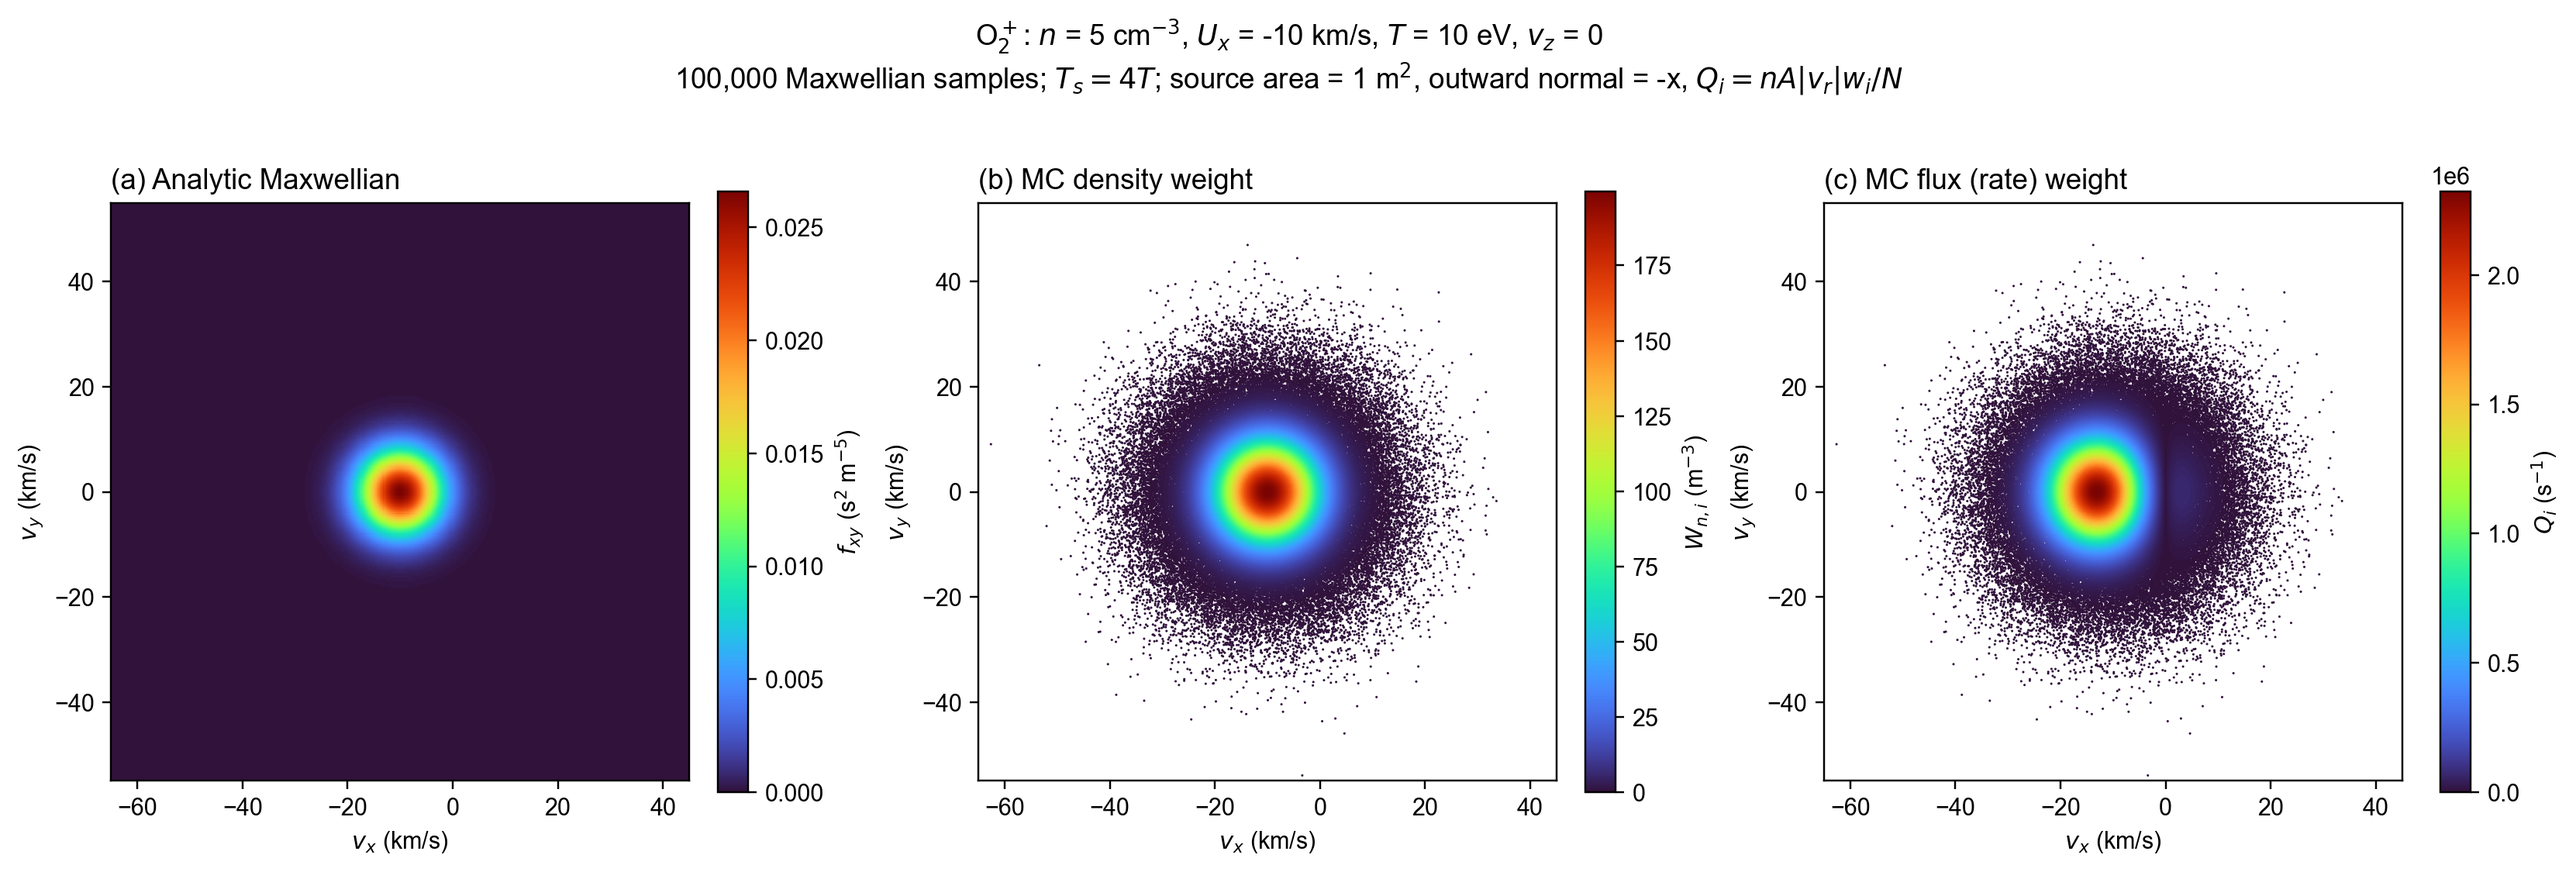
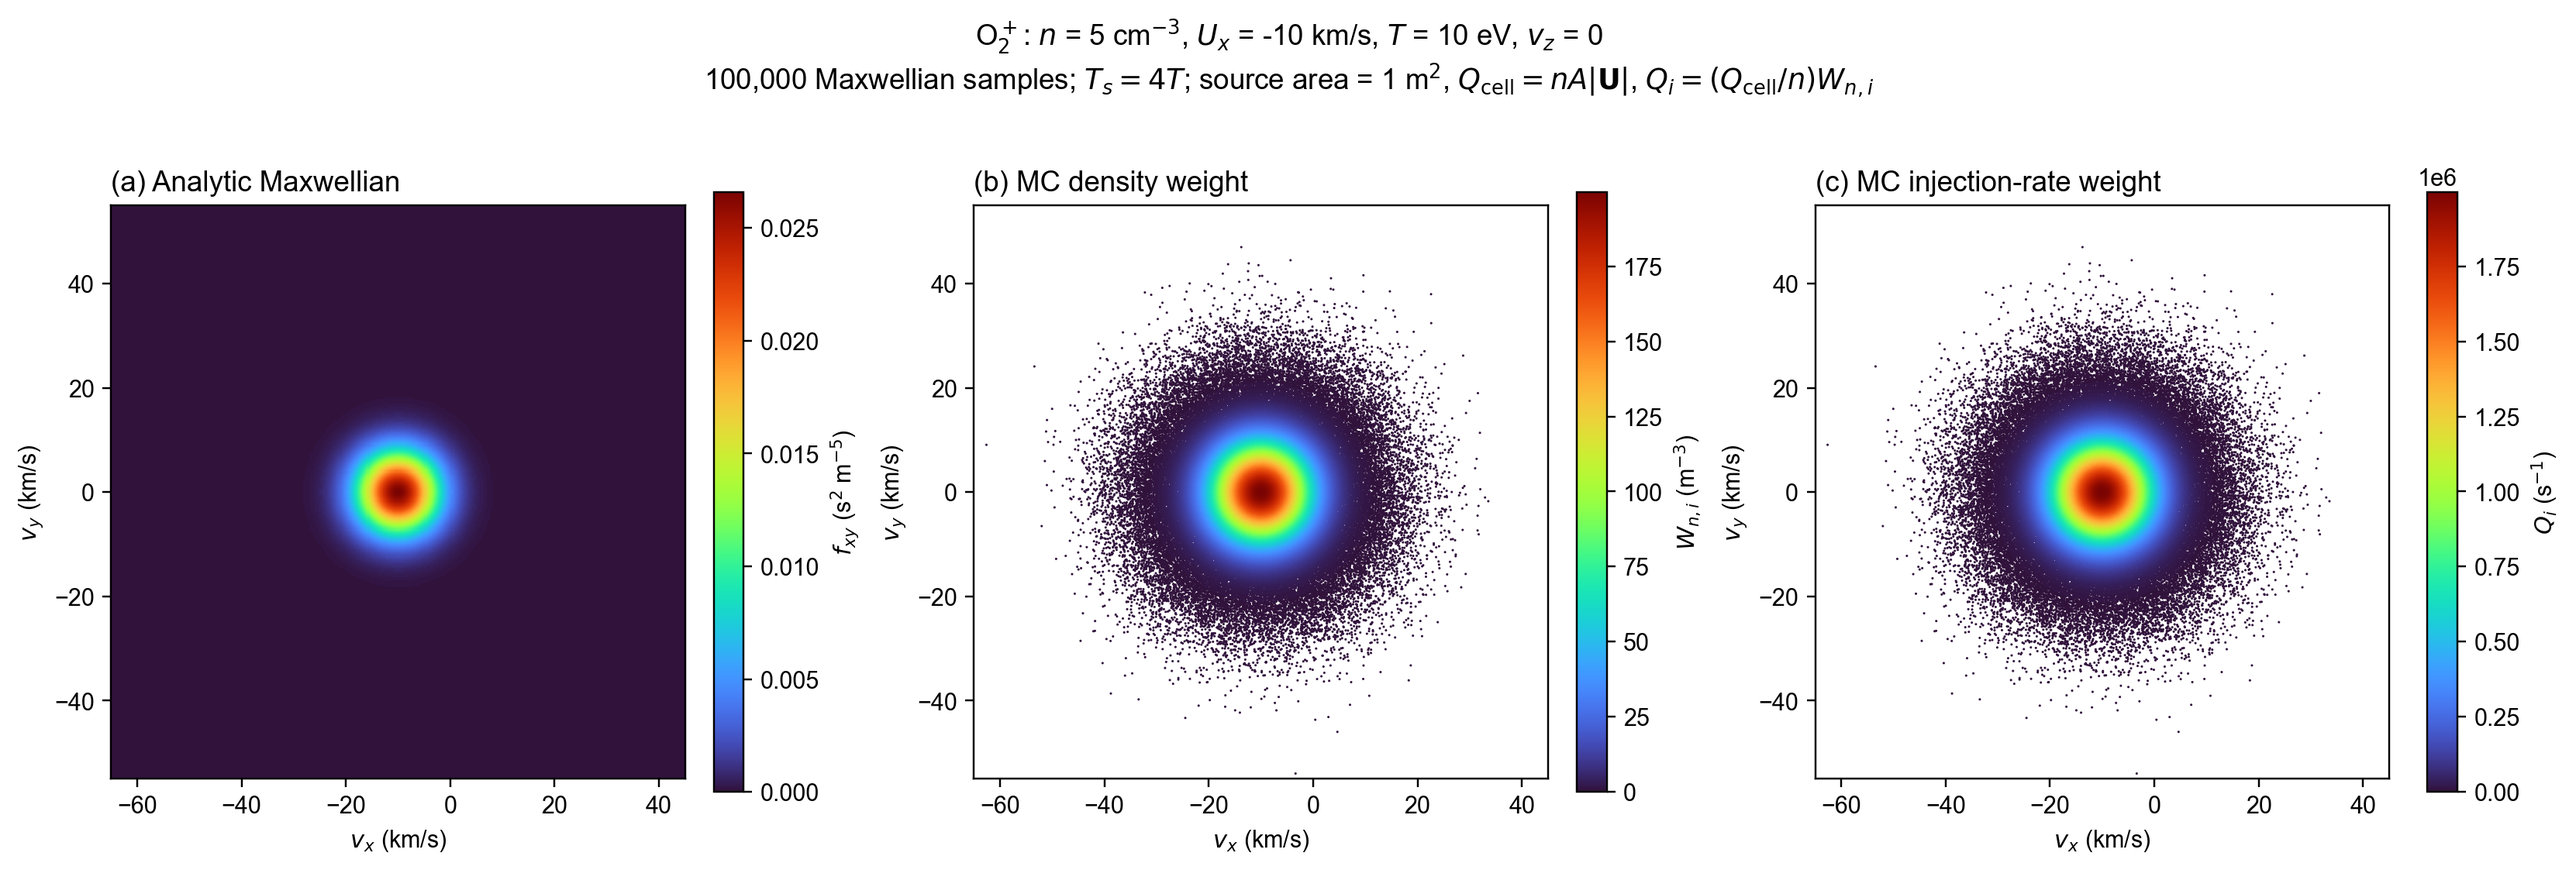
Plot density and prescribed injection rates with proportional weights

diff --git a/examples/forward_tracing/monte_carlo_forward_tracing/plot_monte_carlo_sampling.py b/examples/forward_tracing/monte_carlo_forward_tracing/plot_monte_carlo_sampling.py
@@ -27,20 +27,20 @@ def sample_demo(count=100_000, seed=20260907):
     d2 = np.sum((velocity-bulk)**2,axis=1)
     # d=2: g2/gs2 = factor * exp[-d2/(2 sigma^2)*(1-1/factor)].
     importance = factor*np.exp(-d2/(2*sigma**2)*(1-1/factor))
-    density_weight = n*importance/importance.sum()
-    # Radial reference normal is -x; both crossing directions have weights.
-    radial = -velocity[:,0]
-    rate_weight = n*area*np.abs(radial)*importance/count
-    ur = -bulk[0]
-    outward_probability = .5*math.erfc(-ur/sigma/math.sqrt(2))
-    analytic_rate = n*area*(2*sigma/math.sqrt(2*math.pi)*math.exp(-.5*(ur/sigma)**2)+ur*(2*outward_probability-1))
+    normalized_weight = importance/importance.sum()
+    density_weight = n*normalized_weight
+    # Prescribed total injection rate is fixed for the entire patch.
+    analytic_rate = n*area*np.linalg.norm(bulk)
+    rate_weight = analytic_rate*normalized_weight
     neff = importance.sum()**2/np.sum(importance**2)
     weighted_mean = np.sum(density_weight[:,None]*velocity,axis=0)/n
     assert np.isclose(density_weight.sum(),n,rtol=1e-14)
-    assert np.all(rate_weight[radial!=0]>0)
+    assert np.all(rate_weight>0)
+    assert np.allclose(rate_weight,area*np.linalg.norm(bulk)*density_weight,rtol=1e-14)
+    assert np.allclose(rate_weight/rate_weight.max(),density_weight/density_weight.max(),rtol=1e-14)
     assert np.any(velocity[:,0]<0) and np.any(velocity[:,0]>0)
     assert np.all(abs(weighted_mean-bulk)<6*sigma/math.sqrt(neff))
-    assert np.isclose(rate_weight.sum(),analytic_rate,rtol=.03)
+    assert np.isclose(rate_weight.sum(),analytic_rate,rtol=1e-14)
     return dict(n=n,mass=mass,qe=qe,temperature_ev=temperature_ev,bulk=bulk,
         factor=factor,area=area,sigma=sigma,velocity=velocity,importance=importance,
         density_weight=density_weight,rate_weight=rate_weight,analytic_rate=analytic_rate,
@@ -66,13 +66,14 @@ def main():
     im=axes[0].pcolormesh(x/1000,y/1000,f2,cmap='turbo',shading='auto',norm=Normalize(0,f2.max()))
     axes[0].set_title('(a) Analytic Maxwellian',loc='left')
     fig.colorbar(im,ax=axes[0],label=r'$f_{xy}$ (s$^2$ m$^{-5}$)',shrink=.79)
+    sample_order=np.argsort(d['importance'])
     for ax,weights,title,label in zip(axes[1:],(d['density_weight'],d['rate_weight']),
-            ('(b) MC density weight','(c) MC flux (rate) weight'),
+            ('(b) MC density weight','(c) MC injection-rate weight'),
             (r'$W_{n,i}$ (m$^{-3}$)',r'$Q_i$ (s$^{-1}$)')):
         positive=weights>0
         if np.any(~positive):
             ax.scatter(*d['velocity'][~positive].T/1000,s=1,c='#cccccc',linewidths=0,rasterized=True)
-        order=np.flatnonzero(positive)[np.argsort(weights[positive])]
+        order=sample_order[positive[sample_order]]
         im=ax.scatter(*d['velocity'][order].T/1000,c=weights[order],s=1,
                       cmap='turbo',norm=Normalize(0,weights.max()),linewidths=0,rasterized=True)
         ax.set_title(title,loc='left')
@@ -81,7 +82,7 @@ def main():
         ax.set(xlim=np.array(xlim)/1000,ylim=np.array(ylim)/1000,
                xlabel=r'$v_x$ (km/s)',ylabel=r'$v_y$ (km/s)',aspect='equal')
     fig.suptitle('O$_2^+$: $n$ = 5 cm$^{-3}$, $U_x$ = -10 km/s, $T$ = 10 eV, $v_z$ = 0\n'
-                 f'{args.count:,} Maxwellian samples; '+r'$T_s=4T$; source area = 1 m$^2$, outward normal = -x, $Q_i=nA|v_r|w_i/N$')
+                 f'{args.count:,} Maxwellian samples; '+r'$T_s=4T$; source area = 1 m$^2$, $Q_{\mathrm{cell}}=nA|\mathbf{U}|$, $Q_i=(Q_{\mathrm{cell}}/n)W_{n,i}$')
     args.output.parent.mkdir(parents=True,exist_ok=True)
     fig.savefig(args.output,dpi=220,bbox_inches='tight')
     plt.close(fig)

diff --git a/examples/forward_tracing/monte_carlo_forward_tracing/README.md b/examples/forward_tracing/monte_carlo_forward_tracing/README.md
@@ -10,9 +10,9 @@ Monte Carlo represents a continuous velocity distribution with a finite set of w
 
 ![Maxwellian and Monte Carlo particle weights](monte_carlo_sampling.png)
 
-The [plotting script](plot_monte_carlo_sampling.py) uses O₂⁺ at density 5 cm⁻³ (5×10⁶ m⁻³), bulk velocity (−10,0) km/s and physical temperature 10 eV. It draws 100,000 two-dimensional velocities with vz=0. The **sampling Maxwellian** has temperature 40 eV. A source area of **1 m²** and radial reference normal **(-1,0)** define the bidirectional crossing-rate weights. Both signs of each sampled velocity component are retained.
+The [plotting script](plot_monte_carlo_sampling.py) uses O₂⁺ at density 5 cm⁻³ (5×10⁶ m⁻³), bulk velocity (−10,0) km/s and physical temperature 10 eV. It draws 100,000 two-dimensional velocities with vz=0. The **sampling Maxwellian** has temperature 40 eV. A source area of **1 m²** and bulk speed **10 km/s** define the fixed total patch injection rate Q_cell = n A norm(U) = 5e10 s^-1. Both signs of each sampled velocity component are retained.
 
-All three panels use turbo. The left panel shows the analytical two-dimensional Maxwellian (s² m⁻⁵). The middle and right panels color individual samples by `density_weight` (m⁻³) and `flux_weight` (s⁻¹), respectively. The density weights are self-normalized diagnostics. The crossing-rate weights use Q_i = n A abs(vx_i) w_i / N. Both signs carry positive rates, except exactly tangential velocities with zero normal speed. Reconstruct the VDF with weighted velocity-bin sums, not scatter-point colors.
+All three panels use turbo. The left panel shows the analytical two-dimensional Maxwellian (s² m⁻⁵). The middle and right panels color individual samples by `density_weight` (m⁻³) and `flux_weight` (s⁻¹), respectively. Both panels use the same normalized importance weights: Wn_i = n w_i / sum(w) and Q_i = Q_cell w_i / sum(w) = (Q_cell/n) Wn_i. Their normalized colors and spatial patterns are identical; only colorbar values and units differ. No individual radial-speed factor or sign cutoff is applied in this illustration. This figure demonstrates the prescribed injection model (`flux_model=:bulk_speed`), while the shell default described below remains the bidirectional crossing model. Reconstruct the VDF with weighted velocity-bin sums, not scatter-point colors.
 
 ### 1.2 Maxwellian sampling and importance weights
 
@@ -311,6 +311,6 @@ julia --startup-file=no --compiled-modules=existing --project=. examples/forward
 
 With Julia 1.12.6 and TestParticle 0.23.3, the corrected package suite passed 532 assertions and the shell suite passed 257 assertions. Tests cover bidirectional crossing-rate sums, positive inward weights, outward-only compatibility, zero-field slab density recovery, travel from 500 km to absorption at 200 km, and an inward launch that turns under an outward electric field and returns above 500 km without termination at the source.
 
-A local MHD smoke check used 6 sampled cells, 10 draws per cell and 0.2 s of propagation. The actual stored mesh minimum is 199.646643 km. All 28 inward launches out of 60 samples carried positive rate and propagated to the time limit, with none terminated at the 500 km source. This short check is not a convergence result. The regenerated 2D illustration gives 5.09931727783e10 s^-1 against 5.07281130878e10 s^-1 analytically (0.52% difference).
+A local MHD smoke check used 6 sampled cells, 10 draws per cell and 0.2 s of propagation. The actual stored mesh minimum is 199.646643 km. All 28 inward launches out of 60 samples carried positive rate and propagated to the time limit, with none terminated at the 500 km source. This short check is not a convergence result. The updated prescribed-rate 2D illustration has total density 5e6 m^-3 and total injection rate 5e10 s^-1. Its per-particle rate weights are exactly the density weights multiplied by A norm(U); this plot is a separate source prescription from the bidirectional shell default.
 
 These controlled tests establish implementation behavior, not the frequency of returning trajectories in the actual MHD field. Historical trajectory and detector figures have not been recomputed with the separated boundaries.
